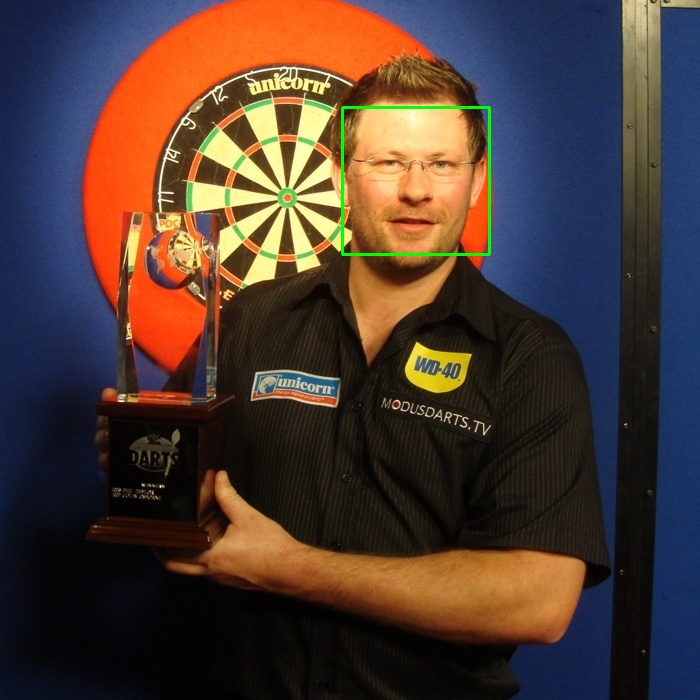
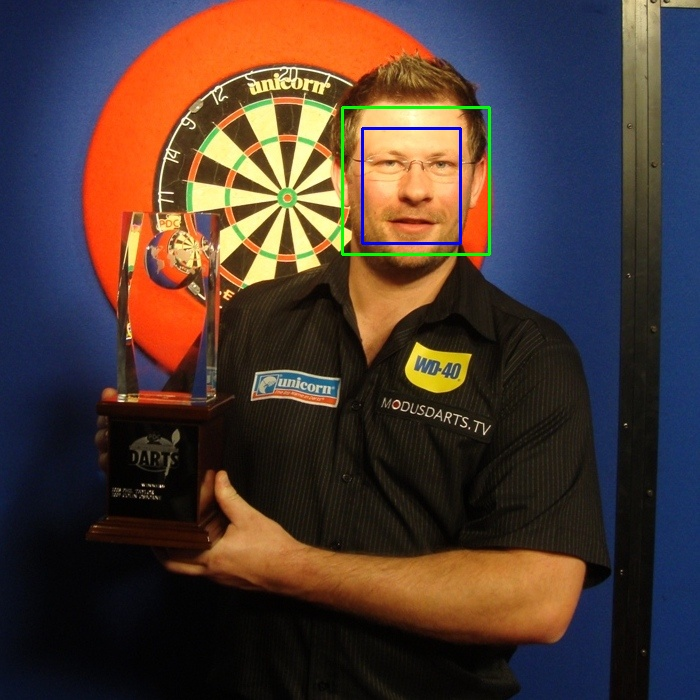
area

Changed region(s): [[0.51, 0.18, 0.66, 0.36]]

diff --git a/compV/materials/face.cpp b/compV/materials/face.cpp
@@ -17,6 +17,29 @@
 using namespace std;
 using namespace cv;
 
+Mat img4 = (Mat_<int>(1,4) << 362, 128, 460, 243);
+
+Mat img5 = (Mat_<int>(11,4) << 67,147,118,192,
+															 59,258,111,311,
+														 	 200,226,249,276,
+															 255,172,301,222,
+															 299,244,342,298,
+															 439,241,480,296,
+															 384,195,434,240,
+															 518,186,565,232,
+															 566,249,613,308,
+															 682,255,726,309,
+															 651,192,697,237);
+
+Mat img13 = (Mat_<int>(1,4) << 427,123,521,244);
+
+Mat img14 = (Mat_<int>(2,4) << 732,196,825,285,
+															 474,217,550,315);
+
+Mat img15 = (Mat_<int>(3,4) << 73,132,131,214,
+															 370,114,429,192,
+															 539,131,608,216);
+
 /** Function Headers */
 void detectAndDisplay( Mat frame );
 
@@ -24,21 +47,27 @@ void detectAndDisplay( Mat frame );
 String cascade_name = "frontalface.xml";
 CascadeClassifier cascade;
 
-
 /** @function main */
 int main( int argc, const char** argv )
 {
        // 1. Read Input Image
 	Mat frame = imread(argv[1], CV_LOAD_IMAGE_COLOR);
 
-	// 2. Load the Strong Classifier in a structure called `Cascade'
+	// 2. Load thfile:///usr/share/doc/HTML/index.htmle Strong Classifier in a structure called `Cascade'
 	if( !cascade.load( cascade_name ) ){ printf("--(!)Error loading\n"); return -1; };
 
 	// 3. Detect Faces and Display Result
 	detectAndDisplay( frame );
 
+	// for (int i = 0; i < img15.rows; i++) {
+	// 	rectangle(frame, Point(img15.at<int>(i,0), img15.at<int>(i,1)), Point(img15.at<int>(i,2), img15.at<int>(i,3)), Scalar(0, 0, 255), 2);
+	// }
+	// rectangle(frame, Point(362, 128), Point(460, 243), Scalar(0, 0, 255), 2);
 	// 4. Save Result Image
-	imwrite( "detected.jpg", frame );
+	// imwrite( "dart15T.jpg", frame );
+
+// int x,y = widthAndHeight(img5);
+// printf("%f",x);
 
 	return 0;
 }
@@ -48,12 +77,14 @@ void detectAndDisplay( Mat frame )
 {
 	std::vector<Rect> faces;
 	Mat frame_gray;
+	int width,height;
+
 
 	// 1. Prepare Image by turning it into Grayscale and normalising lighting
 	cvtColor( frame, frame_gray, CV_BGR2GRAY );
 	equalizeHist( frame_gray, frame_gray );
 
-	// 2. Perform Viola-Jones Object Detection 
+	// 2. Perform Viola-Jones Object Detection
 	cascade.detectMultiScale( frame_gray, faces, 1.1, 1, 0|CV_HAAR_SCALE_IMAGE, Size(50, 50), Size(500,500) );
 
        // 3. Print number of Faces found
@@ -63,6 +94,15 @@ void detectAndDisplay( Mat frame )
 	for( int i = 0; i < faces.size(); i++ )
 	{
 		rectangle(frame, Point(faces[i].x, faces[i].y), Point(faces[i].x + faces[i].width, faces[i].y + faces[i].height), Scalar( 0, 255, 0 ), 2);
+		printf("Area: %d\n", faces[i].width * faces[i].height);
 	}
+		//Draw box around true Faces
+		for (int i = 0; i < img4.rows; i++) {
+			rectangle(frame, Point(img4.at<int>(i,0), img4.at<int>(i,1)), Point(img4.at<int>(i,2), img4.at<int>(i,3)), Scalar(0, 0, 255), 2);
+			width = (img4.at<int>(i,2)) - (img4.at<int>(i,0));
+			height = (img4.at<int>(i,3)) - (img4.at<int>(i,1));
+			int area = width * height;
+			printf("Area of truth: %d\n", area);
+		}
 
 }
